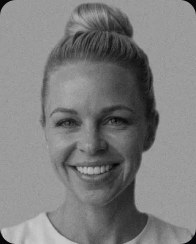
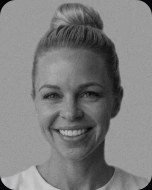
feat(web): shrink the email signature card to 440 px wide

diff --git a/app/web/scripts/signature/template.html b/app/web/scripts/signature/template.html
@@ -1,25 +1,25 @@
-<table role="presentation" cellpadding="0" cellspacing="0" border="0" width="600" style="width:600px;max-width:600px;border-collapse:collapse;background-color:{{base}};border:2px solid {{border}};font-family:-apple-system,'Segoe UI',Helvetica,Arial,sans-serif;">
+<table role="presentation" cellpadding="0" cellspacing="0" border="0" width="440" style="width:440px;max-width:440px;border-collapse:collapse;background-color:{{base}};border:2px solid {{border}};font-family:-apple-system,'Segoe UI',Helvetica,Arial,sans-serif;">
   <tr>
     <td colspan="2" style="padding:0;line-height:0;">
-      <img src="{{assetBase}}/scene.gif" width="596" height="310" alt="McCor Labs red stag among glowing pines" style="display:block;width:596px;height:310px;border:0;">
+      <img src="{{assetBase}}/scene.gif" width="436" height="227" alt="McCor Labs red stag among glowing pines" style="display:block;width:436px;height:227px;border:0;">
     </td>
   </tr>
   <tr>
-    <td colspan="2" align="center" style="padding:0 16px 8px 16px;text-align:center;">
+    <td colspan="2" align="center" style="padding:0 12px 6px 12px;text-align:center;">
       <table role="presentation" cellpadding="0" cellspacing="0" border="0" align="center" style="border-collapse:collapse;margin:0 auto;">
         <tr>
-          <td width="98" style="width:98px;padding:0 14px 0 0;vertical-align:middle;line-height:0;">
-            <img src="{{assetBase}}/photo-{{slug}}.jpg" width="98" height="122" alt="{{name}}" style="display:block;width:98px;height:122px;border:0;">
+          <td width="76" style="width:76px;padding:0 12px 0 0;vertical-align:middle;line-height:0;">
+            <img src="{{assetBase}}/photo-{{slug}}.jpg" width="76" height="95" alt="{{name}}" style="display:block;width:76px;height:95px;border:0;">
           </td>
           <td style="padding:0;vertical-align:middle;text-align:left;">
-            <img src="{{assetBase}}/name-{{slug}}.png" width="240" height="44" alt="{{name}}" style="display:block;width:240px;height:44px;border:0;margin:0 0 2px -6px;">
-            <div style="font-size:12px;line-height:17px;color:{{text}};font-weight:600;">{{title}}</div>
-            <div style="font-size:12px;line-height:18px;">{{phoneCell}}<a href="mailto:{{email}}" style="color:{{muted}};text-decoration:none;">{{email}}</a></div>
-            <div style="font-size:12px;line-height:18px;color:{{muted}};"><a href="{{siteUrl}}" style="color:{{link}};text-decoration:none;font-weight:600;">mccorlabs.com</a>&nbsp;&middot;&nbsp;<a href="{{bookingUrl}}" style="color:{{link}};text-decoration:none;font-weight:600;">Book a call</a></div>
+            <img src="{{assetBase}}/name-{{slug}}.png" width="190" height="34" alt="{{name}}" style="display:block;width:190px;height:34px;border:0;margin:0 0 1px -5px;">
+            <div style="font-size:11px;line-height:15px;color:{{text}};font-weight:600;">{{title}}</div>
+            <div style="font-size:11px;line-height:16px;">{{phoneCell}}<a href="mailto:{{email}}" style="color:{{muted}};text-decoration:none;">{{email}}</a></div>
+            <div style="font-size:11px;line-height:16px;color:{{muted}};"><a href="{{siteUrl}}" style="color:{{link}};text-decoration:none;font-weight:600;">mccorlabs.com</a>&nbsp;&middot;&nbsp;<a href="{{bookingUrl}}" style="color:{{link}};text-decoration:none;font-weight:600;">Book a call</a></div>
             <table role="presentation" cellpadding="0" cellspacing="0" border="0" style="border-collapse:collapse;margin-top:6px;">
               <tr>
                 {{socialCells}}
-                <td style="padding:0;vertical-align:middle;font-size:9px;line-height:14px;color:{{borderStrong}};letter-spacing:0.6px;text-transform:uppercase;">{{slogan}}</td>
+                <td style="padding:0;vertical-align:middle;font-size:8px;line-height:12px;color:{{borderStrong}};letter-spacing:0.5px;text-transform:uppercase;">{{slogan}}</td>
               </tr>
             </table>
           </td>

diff --git a/app/web/scripts/signature/build-signature.ts b/app/web/scripts/signature/build-signature.ts
@@ -24,15 +24,15 @@ const SITE_URL = 'https://mccorlabs.com'
 const BOOKING_FALLBACK = 'https://mccorlabs.com/contact'
 
 const FONTS = {
-  holland: { file: 'Holland.ttf', size: 35, lift: 0 },
+  holland: { file: 'Holland.ttf', size: 27, lift: 0 },
 } as const
 type FontKey = keyof typeof FONTS
 const DEFAULT_FONT: FontKey = 'holland'
 
-const NAME_W = 240
-const NAME_H = 44
-const PHOTO_W = 98
-const PHOTO_H = 122
+const NAME_W = 190
+const NAME_H = 34
+const PHOTO_W = 76
+const PHOTO_H = 95
 const PHOTO_RADIUS = 8
 const ICON = 20
 const SCALE = 2

diff --git a/app/web/scripts/signature/build-scene.ts b/app/web/scripts/signature/build-scene.ts
@@ -10,8 +10,8 @@ const SOURCE = join(HERE, 'scene-source.mp4')
 const OUT_DIR = join(WEB, 'public', 'sig')
 const OUT = join(OUT_DIR, 'scene.gif')
 
-export const SCENE_W = 596
-export const SCENE_H = 310
+export const SCENE_W = 436
+export const SCENE_H = 227
 const CROP = { w: 760, h: 395, x: 260, y: 75 }
 const FPS = 10
 const SWEEP_END_S = 2.4
